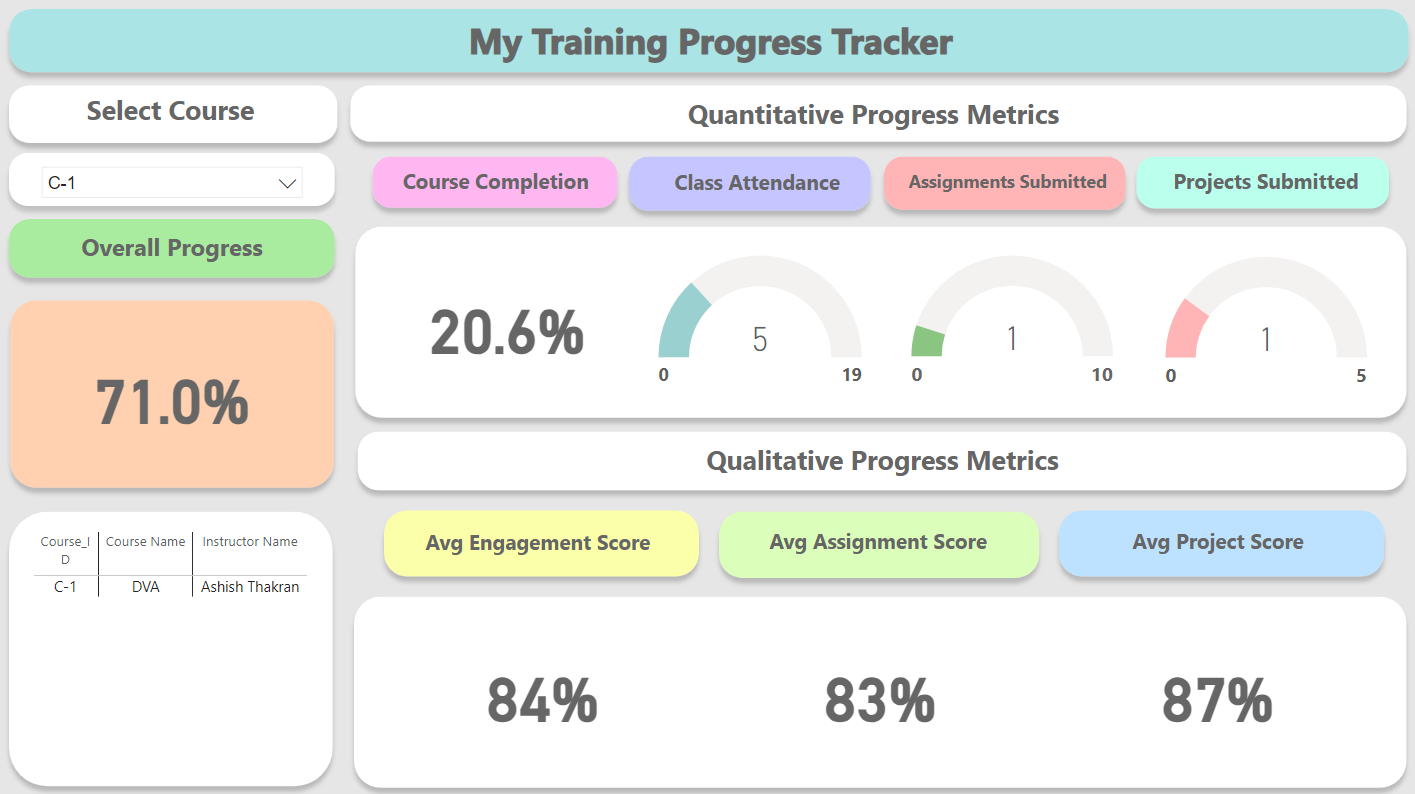
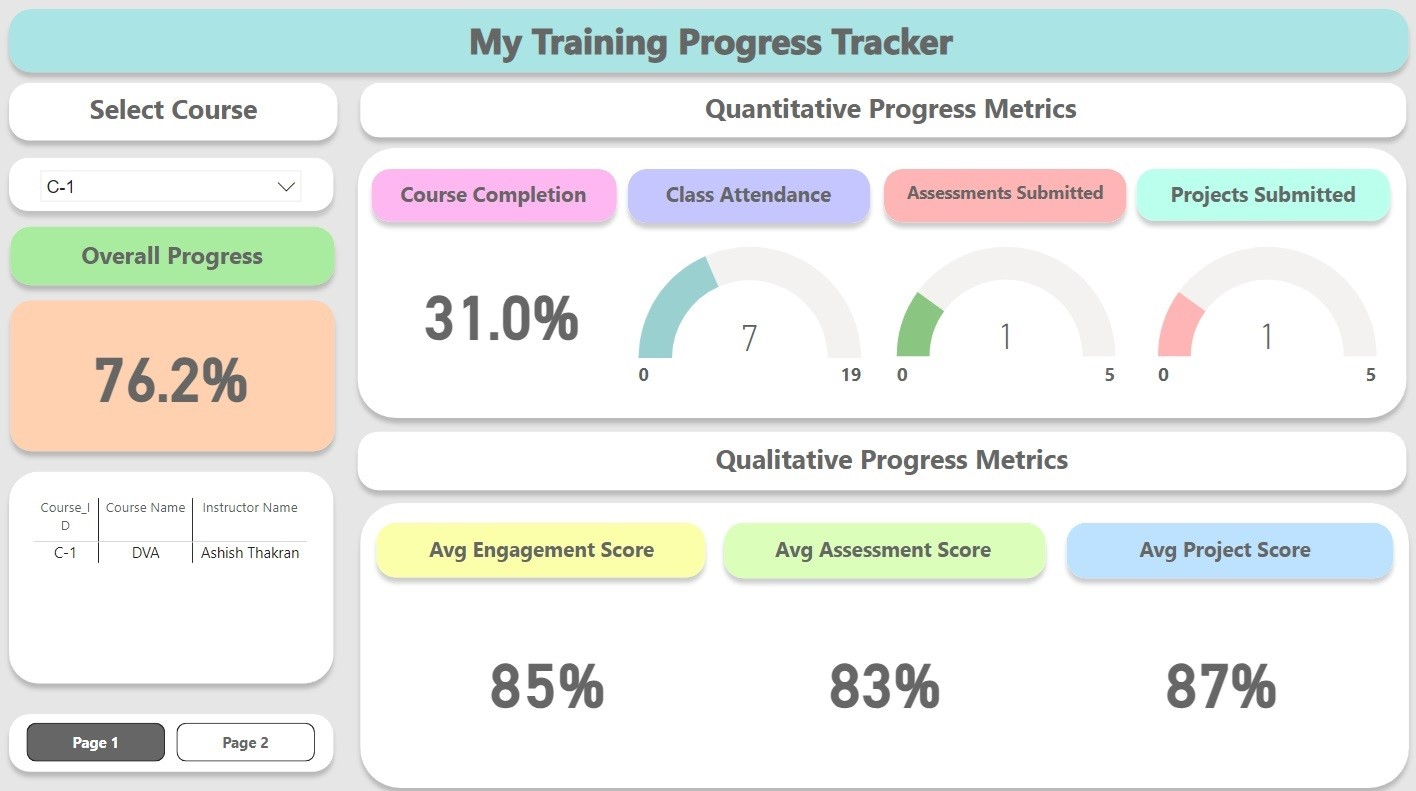
Added new image for updated project

diff --git a/index.html b/index.html
@@ -64,7 +64,7 @@
 										<img src="images/pic02.jpg" alt="" />
 									</span>
 									<header class="major">
-										<h3><a href="" class="link">Training Progress Tracker [ EXCEL | POWERBI ] [Unguided]</a></h3>
+										<h3><a href="" class="link">My Training Progress Tracker [ EXCEL | POWERBI ] [Unguided]</a></h3>
 										<p>Needed a way to monitor and evaluate my progress across metrics like attendance, assignment and project submissions scores and lecture engagement. I aimed to create a dashboard to track these metrics and provide performance insights.</p>
 									</header>
 								</article>
